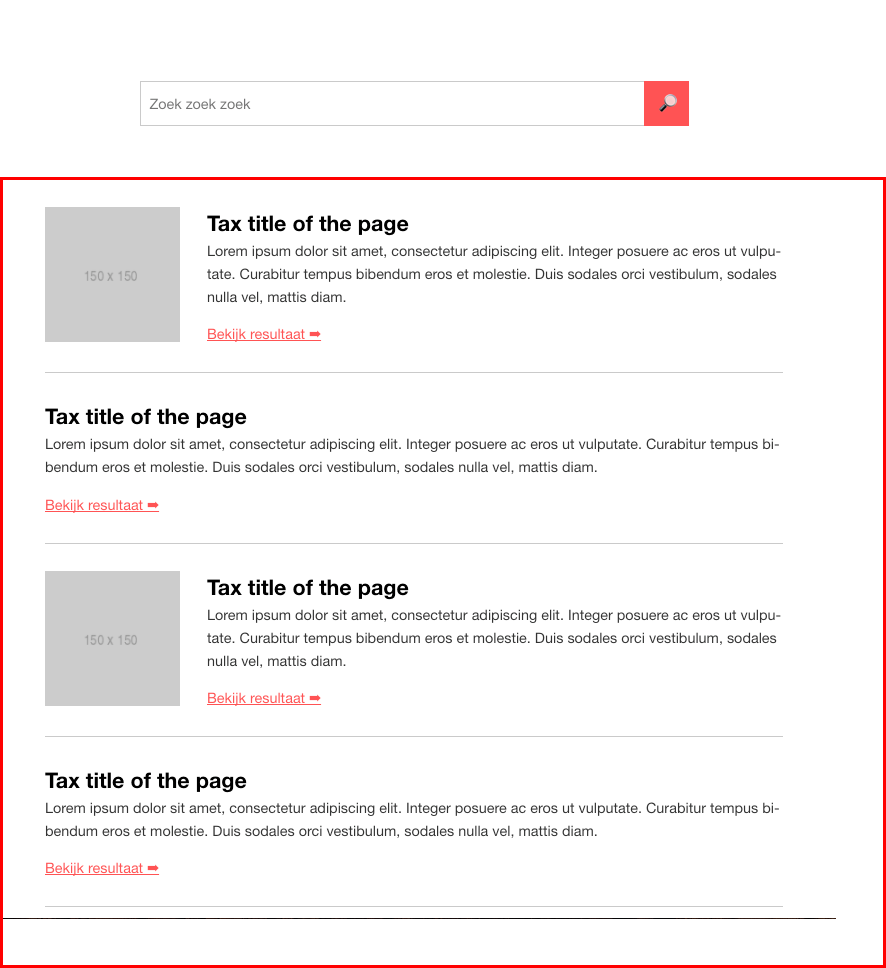
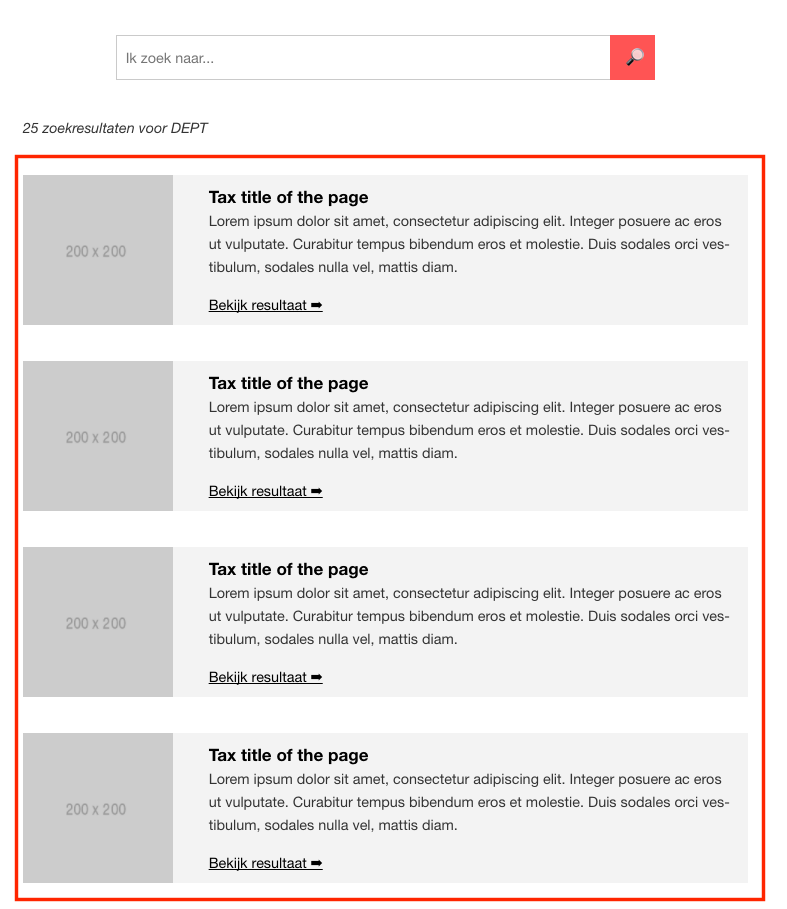
Added new media component, and converted search results to use this media component for the result blocks

Changed region(s): [[0.0, 0.0308, 1.0, 1.0], [0.0915, 0.2772, 0.1525, 0.308]]

diff --git a/components/search/search-results/template/search-results.html b/components/search/search-results/template/search-results.html
@@ -1,5 +1,5 @@
 {#
-    @shelf-version: 1.0.0
+    @shelf-version: 1.1.0
     Search results list
 
     data {
@@ -13,6 +13,9 @@
         ]
     }
 #}
+
+{% from 'components/media.html' import media %}
+
 {% macro searchResults(data) %}
 
     <div class="c-search-results">
@@ -22,24 +25,18 @@
                 <li class="search-results__item">
                     <a href="{{ result.url }}" class="search-results__link">
 
-                        {% if result.image %}
-                            <img
-                                src="{{ result.image }}"
-                                alt="{{ result.title }}"
-                                class="search-results__image"
-                            >
-                        {% endif %}
+                    {% call media({
+                        title: result.title,
+                        image: {
+                            url: result.image
+                        }
+                    }) %}
+                        <p>{{ result.description }}</p>
 
-                        <div class="search-results__content">
-                            <h2>{{ result.title }}</h2>
-                            <p>
-                                {{ result.description }}
-                            </p>
-
-                            <span class="search-results__button">
-                                {{ data.viewResultsLabel }}
-                            </span>
-                        </div>
+                        <span class="search-results__button">
+                            {{ data.viewResultsLabel }}
+                        </span>
+                    {% endcall %}
                     </a>
                 </li>
 

diff --git a/components/search/search-results/stylesheet/_components.search-results.scss b/components/search/search-results/stylesheet/_components.search-results.scss
@@ -1,4 +1,4 @@
-// @shelf-version 1.0.0
+// @shelf-version 1.1.0
 $search-result-spacing: $global-spacing-md;
 
 .search-results__list {
@@ -7,40 +7,23 @@ $search-result-spacing: $global-spacing-md;
     margin-bottom: $search-result-spacing;
 }
 
-.search-results__item {
-
-    padding: 0;
-    padding-bottom: $search-result-spacing;
-    margin-bottom: $search-result-spacing;
-    border-bottom: 1px solid $color-grey;
-
-}
-
 .search-results__link {
     color: inherit;
     text-decoration: none;
-    display: flex;
-    flex-direction: row;
+    display: block;
 
-    @include screen-mobile-plus-and-smaller {
-        display: block;
-    }
-}
-
-.search-results__image {
-    min-width: 150px;
-    height: 150px;
-
-    @include screen-tablet-portrait-and-bigger {
-        margin-right: $search-result-spacing;
+    .c-media {
+        transition: background-color .4s ease-in-out;
     }
 
-    @include screen-mobile-plus-and-smaller {
-        margin-bottom: $search-result-spacing;
+    &:hover, &:focus {
+        .c-media {
+            background-color: #ddd;
+        }
     }
 }
 
 .search-results__button {
     text-decoration: underline;
-    color: $color-primary;
+    color: $color-black;
 }

diff --git a/components/media/template/media.html b/components/media/template/media.html
@@ -1,0 +1,37 @@
+{#
+    @shelf-version: 1.0.0
+    Media comopnent
+
+    data {
+        image: soon
+        title:      'string',
+        align:      'top' (optional) - aligns content to the top
+    }
+
+    caller - for content.
+#}
+
+{% macro media(data) %}
+
+    <article class="u-margin-top--md c-media {% if data.align %}media--align-{{data.align}}{% endif %}">
+        <div class="o-grid media__wrapper">
+
+            <aside class="o-col-3 media__aside">
+                <figure class="media__figure">
+                    <img src="http://via.placeholder.com/200x200"
+                         class="media__image"
+                         alt="">
+                </figure>
+            </aside>
+
+            <div class="o-col-9 media__content">
+                <h3>{{ data.title }}</h3>
+                {% if caller %}
+                    {{ caller() }}
+                {%endif %}
+            </div>
+        </div>
+
+    </article>
+
+{% endmacro %}

diff --git a/components/media/stylesheet/_components.media.scss b/components/media/stylesheet/_components.media.scss
@@ -1,0 +1,33 @@
+$media-content-spacing  : $global-spacing-sm;
+$media-margin           : $global-spacing-md;
+
+.c-media {
+    margin-bottom: $media-margin;
+    background-color: #f3f3f3;
+}
+
+    .media__wrapper {
+        display: flex;
+        align-items: center;
+
+        .media--align-top & {
+            align-items: flex-start;
+        }
+    }
+
+    .media__figure {
+        padding-right: $media-content-spacing;
+    }
+
+    .media__image {
+        width: 100%;
+        height: auto;
+    }
+
+    .media__content {
+        padding-right: $media-content-spacing;
+
+        .media--align-top & {
+            padding-top: $media-content-spacing;
+        }
+    }
